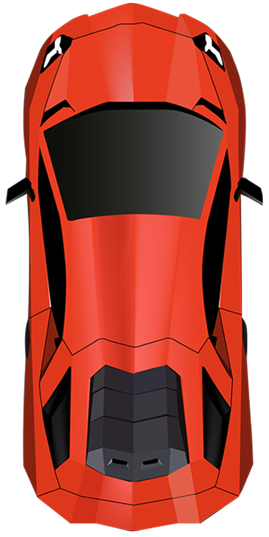
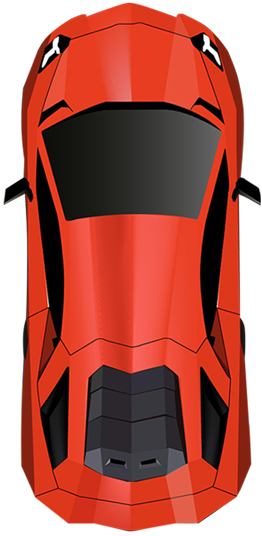
Classes 20.05

diff --git a/engine/player.cpp b/engine/player.cpp
@@ -4,11 +4,12 @@ Player::Player() {
     this->window = nullptr;
     this->position = 0;
     this->rotation = 0;
-    if (!this->texture.loadFromFile("../assets/cars/lambo.png")) exit(1);
+    if (!this->texture.loadFromFile("../assets/cars/ferrari2.png")) exit(1);
     this->texture.setSmooth(true);
     this->texture.setRepeated(false);
     this->sprite.setTexture(texture);
     this->sprite.setScale(.3, .3);
+    this->sprite.setOrigin(sf::Vector2f((texture.getSize().x*.3)/2,texture.getSize().y*.3));
 }
 
 void Player::display() {
@@ -39,9 +40,9 @@ void Player::update() {
         rotation += .15;
     }
 
-    if ( rotation > 0 && position < 279) {
+    if ( rotation > 0 && position < 295) {
         position += 2 * rotation * (speed/100);
-    } else if (rotation < 0 && position > - 280) {
+    } else if (rotation < 0 && position > - 260) {
         position += 2 * rotation* (speed/100);
     }
     if (!sf::Keyboard::isKeyPressed(sf::Keyboard::Right) && !sf::Keyboard::isKeyPressed(sf::Keyboard::Left)) {
